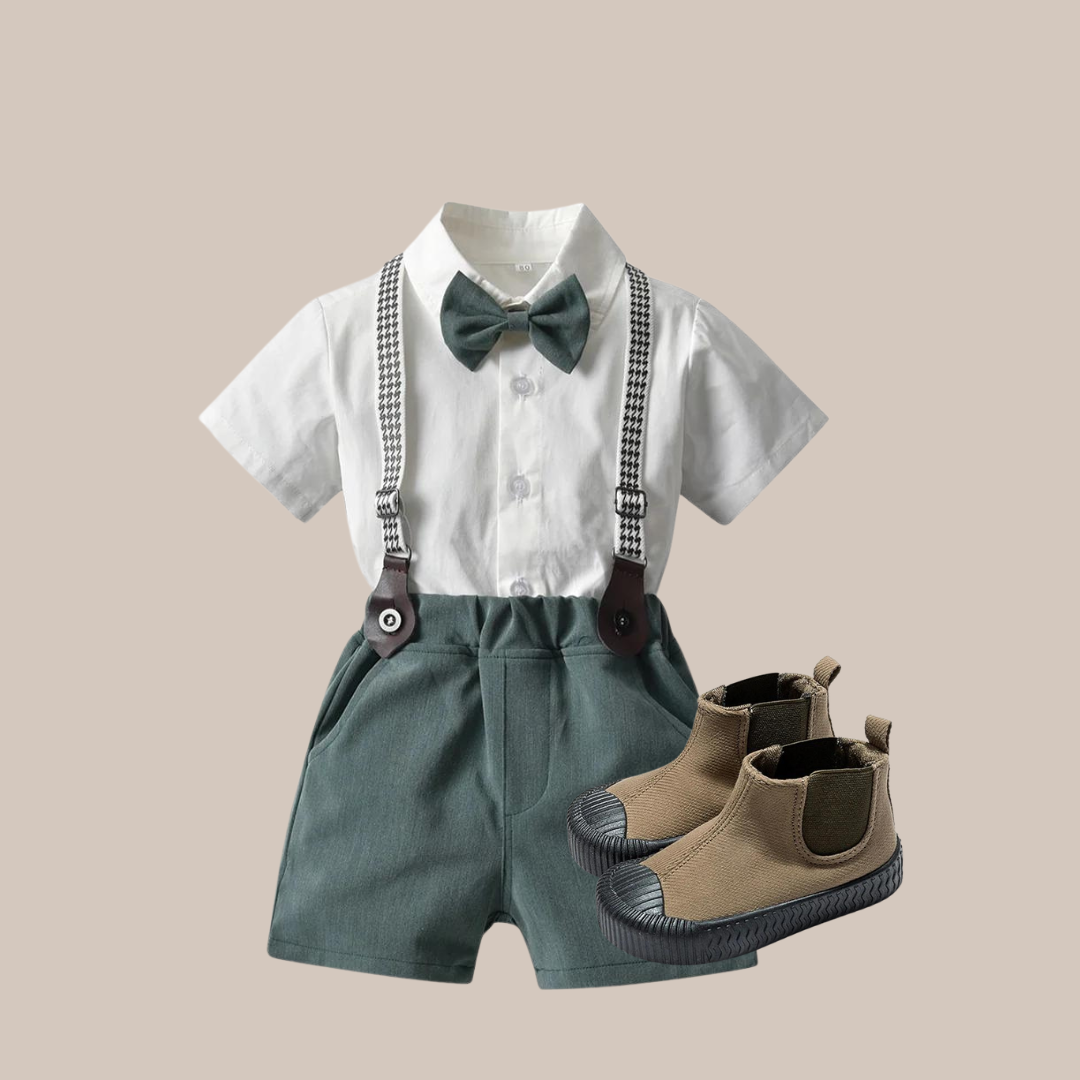
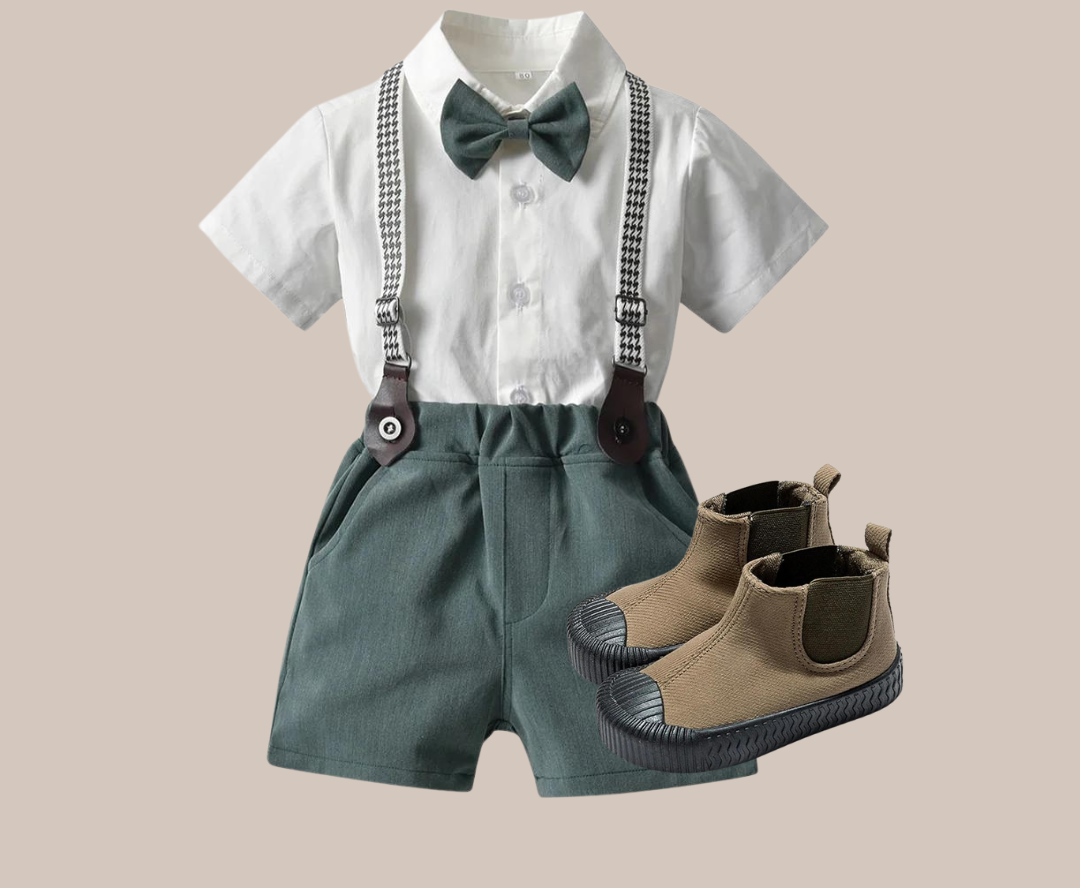
Add files via upload

Changed region(s): [[0.1833, 0.0, 0.8556, 0.9426]]

diff --git a/style.css b/style.css
@@ -221,6 +221,7 @@ body {
   justify-content: flex-start;
   padding: 5rem 3rem;
   background: #d4c8be;
+  overflow: hidden;
 }
 
 .women-prod-feat h1,
@@ -231,7 +232,7 @@ body {
   font-weight: 700;
   color: #ffffff;
   text-transform: uppercase;
-  margin-bottom: 5rem;
+  margin-bottom: 6rem;
   text-align: center;
 }
 
@@ -239,6 +240,11 @@ body {
 .men-prod-feat img,
 .kids-prod-feat img {
   width: 100%;
+  transform: scale(1.3);
+  -webkit-transform: scale(1.3);
+  -moz-transform: scale(1.3);
+  -ms-transform: scale(1.3);
+  -o-transform: scale(1.3);
 }
 
 .women-prod-list,
@@ -1031,7 +1037,7 @@ footer {
   .men-prod-feat h1,
   .kids-prod-feat h1 {
     font-size: 1.8rem;
-    margin-bottom: 5rem;
+    margin-bottom: 7rem;
   }
 
   .women-prod-feat img,
